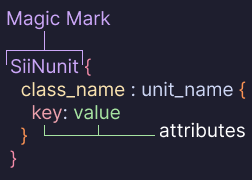
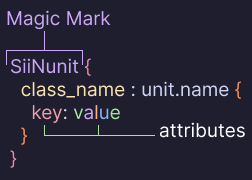
feat(client): add .sii/.sui and refresh docs/assets
- add icons for .sii and .sui (apps/client/public/icon.png and apps/client/public/extensions/*)
- include icon entries in apps/client/package.json contributes for dark/light themes
- update README badges and documentation text
- update .github image and clean up .gitignore

Changed region(s): [[0.6944, 0.4444, 0.9722, 0.5556], [0.3333, 0.5833, 0.4444, 0.6667]]

diff --git a/README.md b/README.md
@@ -7,8 +7,8 @@
 
 <div align="center">
 
-<img src="https://img.shields.io/badge/license-MIT-green?style=flat" alt="badge license" />
-<img src="https://img.shields.io/badge/vscode-compatible-blue?style=flat" alt="vscode" />
+<img src="https://img.shields.io/badge/license-MIT-green?style=for-the-badge" alt="badge license" />
+<a href="https://marketplace.visualstudio.com/items?itemName=DuHNunes.scs-intellisense"><img src="https://img.shields.io/github/v/release/duhnunes/scs-intellisense?style=for-the-badge" alt="build released" /></a>  
 
 </div>
 
@@ -31,7 +31,7 @@
 
 - **SiiNunit** - The **magic marker** that identifies a plain-text `.sii` file. It appears at the top of the file and marks the file as a serialized unit file.
 - **class_name** - The **unit type of class** being defined; it indicates the schema or category of the unit (for example `prefab_model`, `model_def`). It appears before the colon in the unit header.
-- **unit_name** - The **unique name** of the unit: a sequence of tokens separated by dots (e.g., `mod.namespace.item`). Use unique names per mod to avoid collisions. Anonymous units may use a leading dot.
+- **unit.name** - The **unique name** of the unit: a sequence of tokens separated by dots (e.g., `mod.namespace.item`). Use unique names per mod to avoid collisions. Anonymous units may use a leading dot.
 - **attribute** - The **property name** inside a unit block; an attribute is a **key + value** pair that holds the unit data.
 - **key** - The **attribute name** that identifies the property (e.g. `name` in `name: "Truck"`).
 - **value** - The **attribute value**. Value can be **strings**, **numbers**, **booleans**, **unit references**, **vectors (tuples)**, or other engine-specific formats. Use quotes for strings and parentheses for vectors.
@@ -41,8 +41,9 @@
 
 - **Semantic highlighting** for `.sii` and `.sui` files
 <!-- - **Completions** for class names, attributes and values (context-aware) -->
-- **`@include` directive**: recognized as a special key (no `:`)
+<!-- - **`@include` directive**: recognized as a special key (no `:`) -->
 - **Comment support**: `//`, `#` and `/* ... */`
+- **Icon** for each files `.sii` and `.sui`
 - **Auto-close brackets** for `{}`, `()`, `[]`
 
 
